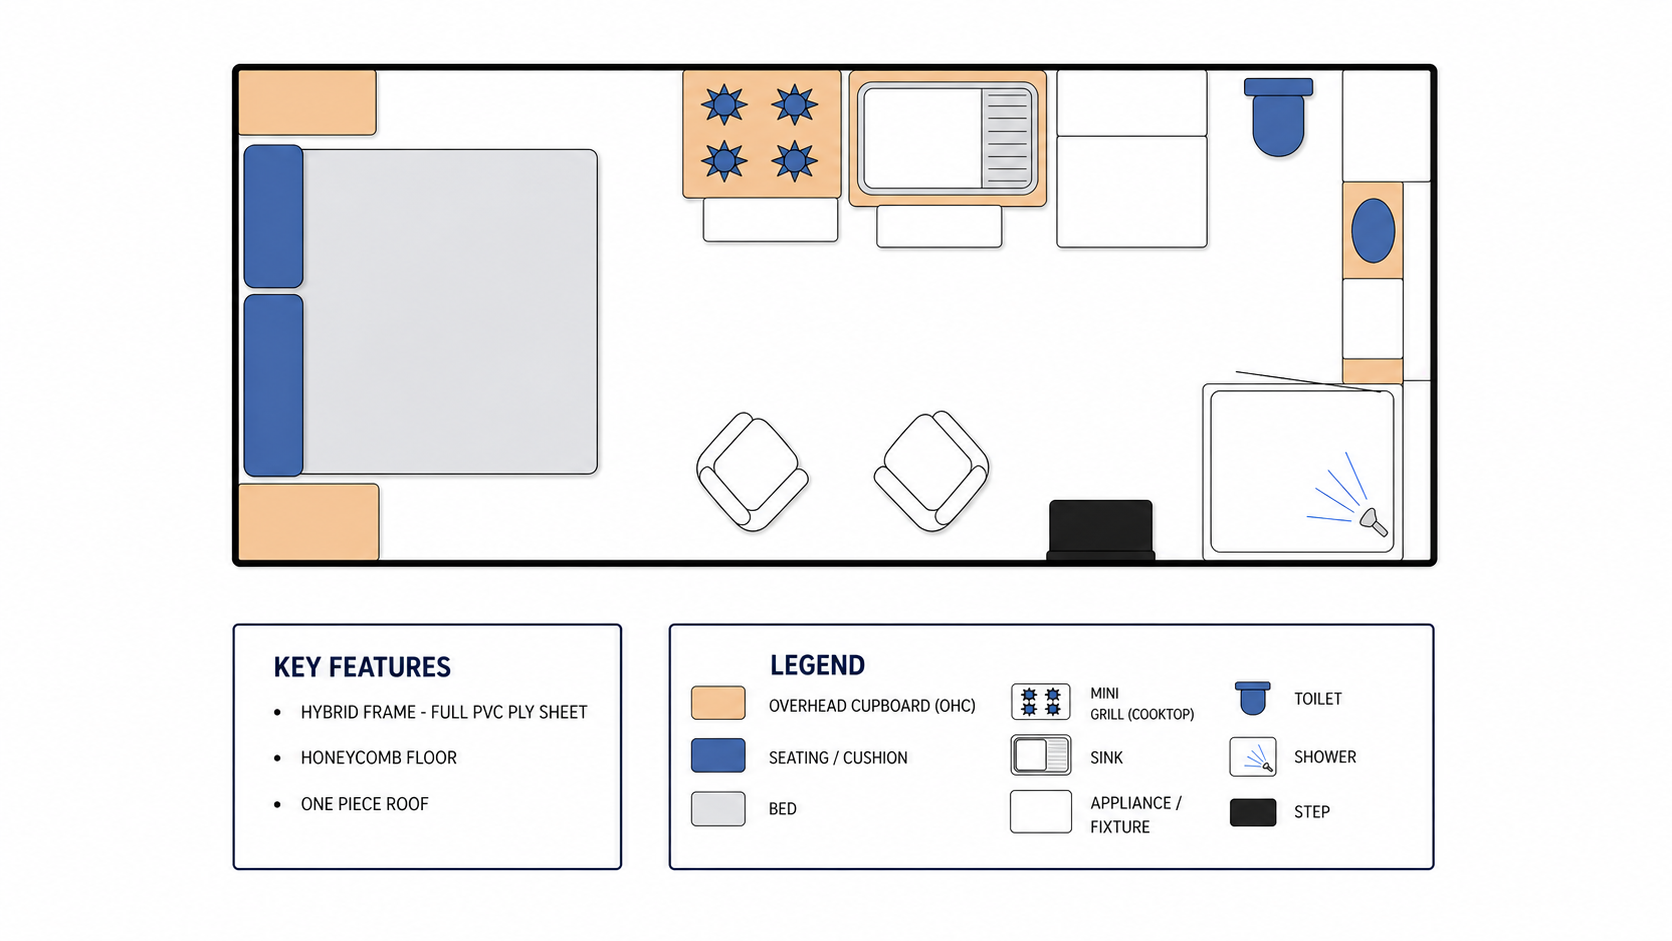
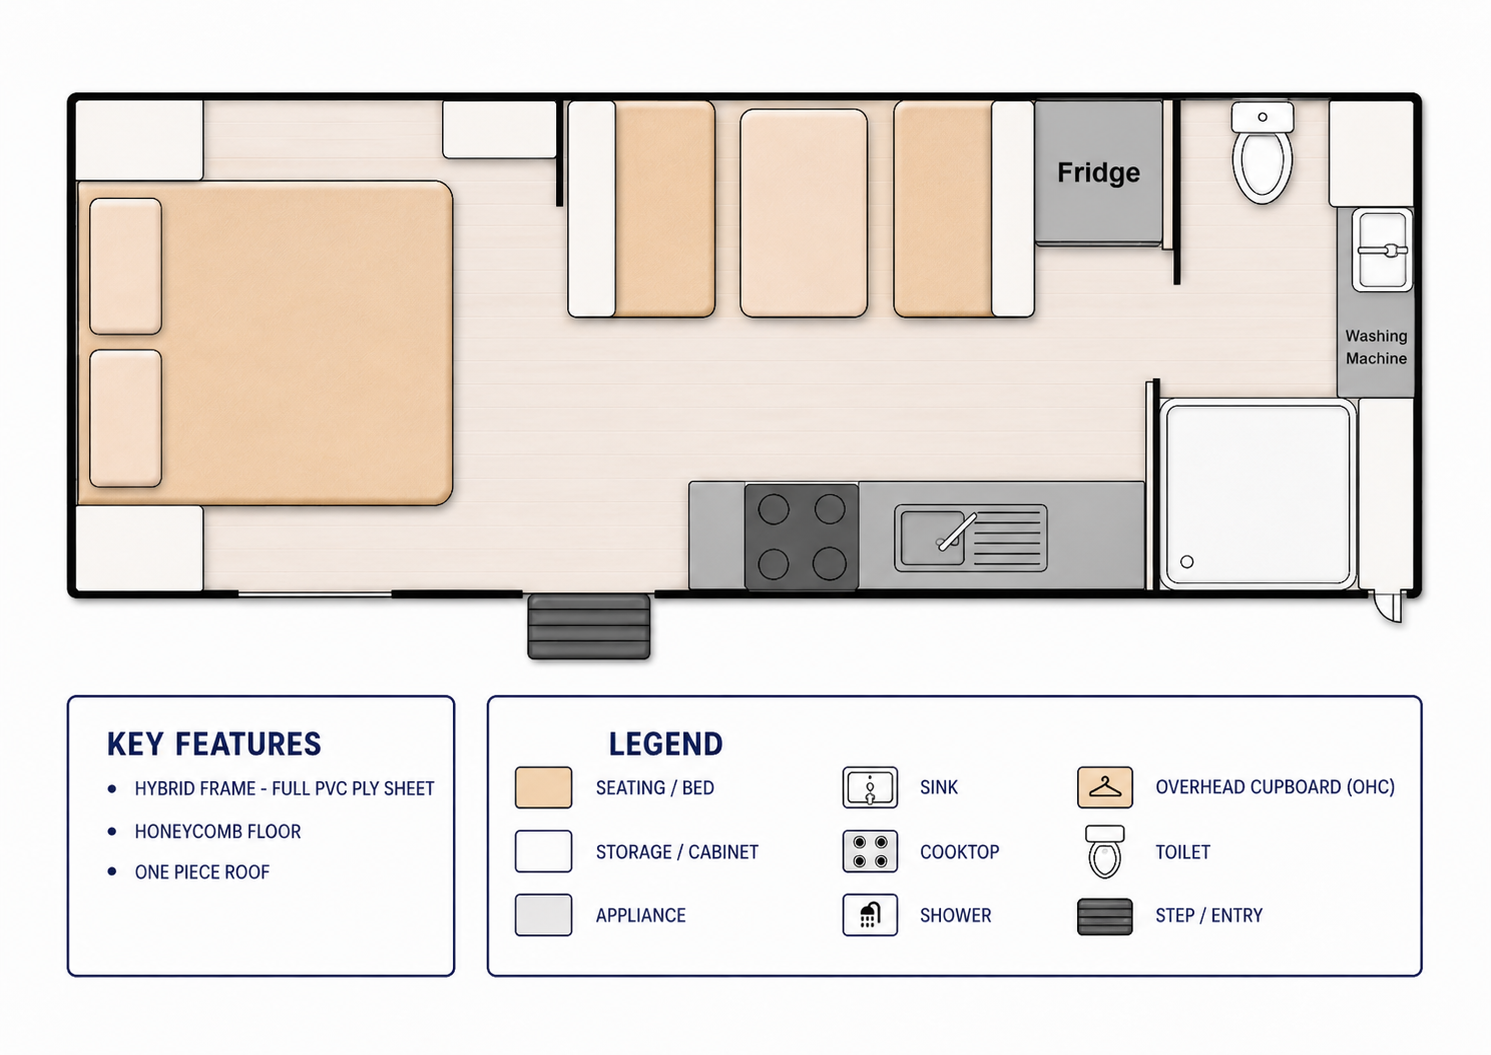
feat(models): add dedicated floor plans across the Mirage range
New drawings for 18'6, 19'6, 20'6 Cafe/Recliner and 22'6 Slide-Out.
The 20'6 recliner gets its own file so it no longer shares
mirage-recliners.png with the 21'6 recliner plans.

diff --git a/src/content/models.js b/src/content/models.js
@@ -546,16 +546,16 @@ export const models = [
     // sizes that list more than one option; smaller sizes carry a single plan.
     floorPlans: [
       { build: 'standard', size: '18-6', lounge: null, bed: null, image: '/images/blueprints/mirage-18-6.png' },
-      { build: 'standard', size: '19-6', lounge: null, bed: null, image: '/images/blueprints/generic-19-6.png' },
+      { build: 'standard', size: '19-6', lounge: null, bed: null, image: '/images/blueprints/mirage-19-6.png' },
       { build: 'standard', size: '20-6', lounge: 'cafe', bed: null, image: '/images/blueprints/mirage-20-6.png' },
-      { build: 'standard', size: '20-6', lounge: 'recliner', bed: null, image: '/images/blueprints/mirage-recliners.png' },
+      { build: 'standard', size: '20-6', lounge: 'recliner', bed: null, image: '/images/blueprints/mirage-20-6-recliner.png' },
       { build: 'standard', size: '21-6', lounge: 'cafe', bed: 'queen', image: '/images/blueprints/generic-21-6.png' },
       { build: 'standard', size: '21-6', lounge: 'cafe', bed: 'single', image: '/images/blueprints/generic-21-6.png' },
       { build: 'standard', size: '21-6', lounge: 'recliner', bed: 'queen', image: '/images/blueprints/mirage-recliners.png' },
       { build: 'standard', size: '21-6', lounge: 'recliner', bed: 'single', image: '/images/blueprints/mirage-recliners.png' },
       { build: 'standard', size: '22-6', lounge: 'cafe', bed: null, image: '/images/blueprints/generic-22-6.png' },
       { build: 'standard', size: '22-6', lounge: 'recliner', bed: null, image: '/images/blueprints/mirage-recliners.png' },
-      { build: 'slideout', size: '22-6', lounge: null, bed: null, image: '/images/blueprints/generic-22-6.png' },
+      { build: 'slideout', size: '22-6', lounge: null, bed: null, image: '/images/blueprints/mirage-22-6-slideout.png' },
     ],
   },
   {

diff --git a/CHANGELOG.md b/CHANGELOG.md
@@ -143,3 +143,4 @@
 - Added dedicated floor plan drawings for all four Horizon sizes (19'6, 20'6, 21'6 and 22'6) — selecting any size now shows its own layout instead of a generic plan.
 - Added a bunk layout option to the Dune 19'6 — selecting that size now lets you switch between the Queen Bed plan and a Bunks plan, each with its own floor plan drawing.
 - Added a dedicated floor plan drawing for the Dune 22'6 Bunks layout — choosing Bunks at that size now shows its own plan instead of the generic one.
+- Added dedicated floor plan drawings across the Mirage range — the 18'6, 19'6, the 20'6 Cafe Style and Twin Recliner layouts, and the 22'6 Slide-Out now each show their own plan instead of a generic one.